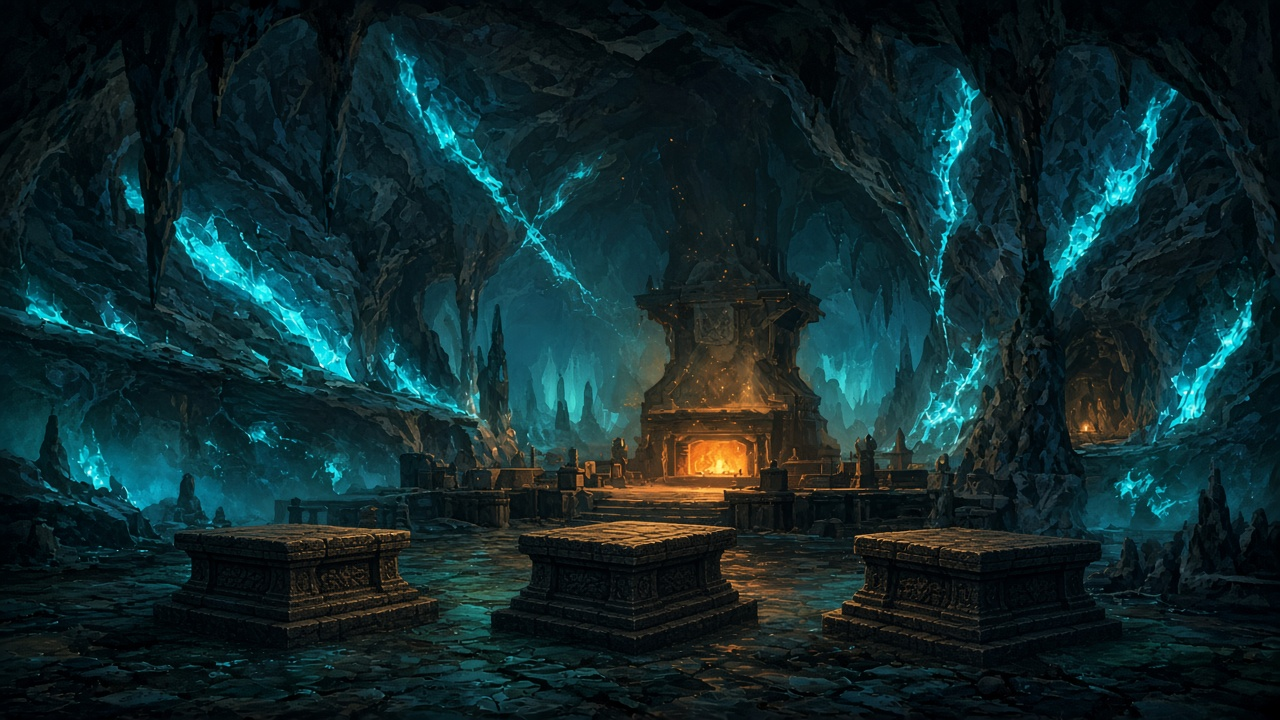
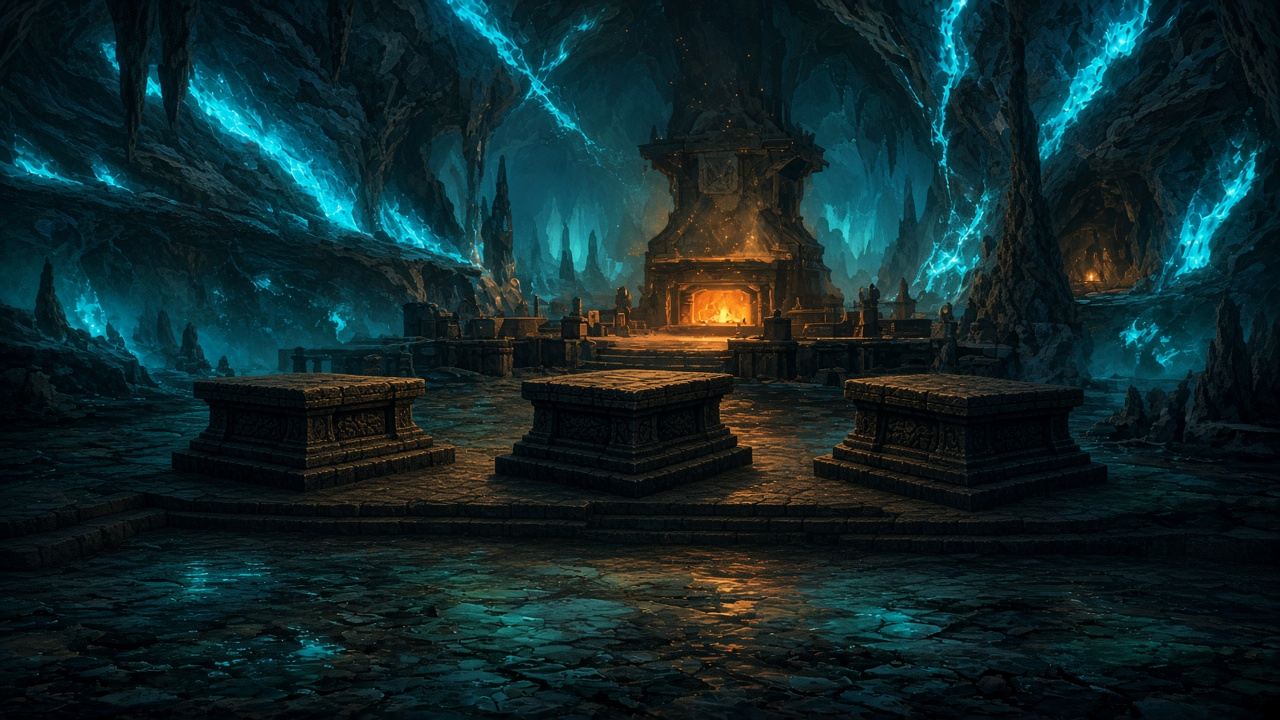
Ground forge machines on mid-band pedestals above the HUD
Refresh the Forge hall art so pedestals sit in the playable mid band, tune slot anchors onto the plinth tops, and keep the goal strip clear of the station row.

diff --git a/src/forge/ForgeScene.ts b/src/forge/ForgeScene.ts
@@ -189,7 +189,9 @@ export class ForgeScene {
     this.app.stage.on('pointerdown', (e) => this.handlePointer(e.global.x, e.global.y));
 
     this.app.ticker.add((ticker) => this.update(ticker.deltaMS / 1000));
-    this.applyViewVisibility();
+    this.mineLayer.alpha = 1;
+    this.forgeLayer.alpha = 0;
+    this.applyViewEventModes();
     this.resize();
   }
 
@@ -205,7 +207,7 @@ export class ForgeScene {
     if (this.view === view) return;
     this.view = view;
     this.viewFade = 0;
-    this.applyViewVisibility();
+    this.applyViewEventModes();
     this.redrawStations();
   }
 
@@ -368,12 +370,10 @@ export class ForgeScene {
     }
   }
 
-  private applyViewVisibility() {
+  private applyViewEventModes() {
     const forge = this.view === 'forge';
     this.forgeLayer.visible = true;
     this.mineLayer.visible = true;
-    this.forgeLayer.alpha = forge ? 1 : 0;
-    this.mineLayer.alpha = forge ? 0 : 1;
     this.forgeLayer.eventMode = forge ? 'passive' : 'none';
     this.mineLayer.eventMode = forge ? 'none' : 'passive';
   }
@@ -403,10 +403,18 @@ export class ForgeScene {
   private layoutBackground(sprite: Sprite | null) {
     if (!sprite) return;
     const tex = sprite.texture;
-    const scale = Math.max(this.width / tex.width, this.height / tex.height);
+    // Slight zoom keeps pedestals in the playable mid-band above the HUD.
+    const cover = Math.max(this.width / tex.width, this.height / tex.height);
+    const scale = cover * (sprite === this.forgeBg ? 1.08 : 1);
     sprite.scale.set(scale);
     sprite.x = (this.width - tex.width * scale) / 2;
-    sprite.y = (this.height - tex.height * scale) / 2;
+    if (sprite === this.forgeBg) {
+      // Bias upward so the pedestal band sits above the bottom dock.
+      const rawY = (this.height - tex.height * scale) / 2;
+      sprite.y = Math.min(-this.height * 0.02, rawY + this.height * 0.04);
+    } else {
+      sprite.y = (this.height - tex.height * scale) / 2;
+    }
   }
 
   private drawVignette() {
@@ -562,7 +570,7 @@ export class ForgeScene {
       try {
         const texture = await Assets.load(STATION_ART[def.id]);
         const sprite = new Sprite(texture);
-        sprite.anchor.set(0.5, 0.94);
+        sprite.anchor.set(0.5, 0.98);
         sprite.visible = false;
         sprite.tint = 0xe8f1f2;
         this.spriteByStation.set(def.id, sprite);
@@ -574,8 +582,8 @@ export class ForgeScene {
   }
 
   private stationDisplayScale(): number {
-    // Machines are the forge-view focus — larger, still below brand/HUD.
-    return Math.min(0.72, Math.max(0.42, this.width / 1100));
+    // Sized to sit on hall pedestals without swallowing the hearth.
+    return Math.min(0.58, Math.max(0.36, this.width / 1300));
   }
 
   private redrawStations() {

diff --git a/src/styles/main.css b/src/styles/main.css
@@ -163,6 +163,12 @@ body {
   pointer-events: none;
 }
 
+/* Forge hall pedestals live mid-screen — keep the goal strip out of that band. */
+.hud.view-forge .mid-space {
+  justify-content: flex-start;
+  padding-top: 4px;
+}
+
 .goal-strip {
   pointer-events: none;
   align-self: center;
@@ -174,6 +180,12 @@ body {
   border: 1px solid color-mix(in srgb, var(--cyan) 28%, transparent);
   backdrop-filter: blur(10px);
   box-shadow: 0 10px 28px color-mix(in srgb, var(--void) 40%, transparent);
+}
+
+.hud.view-forge .goal-strip {
+  margin-bottom: 0;
+  width: min(360px, 88%);
+  padding: 8px 10px;
 }
 
 .goal-strip.goal-ready {

diff --git a/src/forge/sceneView.ts b/src/forge/sceneView.ts
@@ -1,8 +1,11 @@
 export type SceneView = 'mine' | 'forge';
 
-/** Fixed forge-hall pedestal anchors (fractions of canvas). */
+/**
+ * Fixed forge-hall pedestal anchors (fractions of canvas).
+ * Kept in the mid band so machines sit above the bottom HUD dock.
+ */
 export const FORGE_STATION_SLOTS = {
-  smelter: { x: 0.22, y: 0.64 },
-  anvil: { x: 0.5, y: 0.66 },
-  enchanter: { x: 0.78, y: 0.64 },
+  smelter: { x: 0.23, y: 0.585 },
+  anvil: { x: 0.5, y: 0.605 },
+  enchanter: { x: 0.77, y: 0.585 },
 } as const;

diff --git a/src/forge/sceneView.test.ts b/src/forge/sceneView.test.ts
@@ -9,8 +9,8 @@ describe('FORGE_STATION_SLOTS', () => {
     expect(xs[0]).toBeLessThan(xs[1]);
     expect(xs[1]).toBeLessThan(xs[2]);
     for (const slot of Object.values(FORGE_STATION_SLOTS)) {
-      expect(slot.y).toBeGreaterThan(0.55);
-      expect(slot.y).toBeLessThan(0.75);
+      expect(slot.y).toBeGreaterThan(0.5);
+      expect(slot.y).toBeLessThan(0.65);
     }
   });
 });
